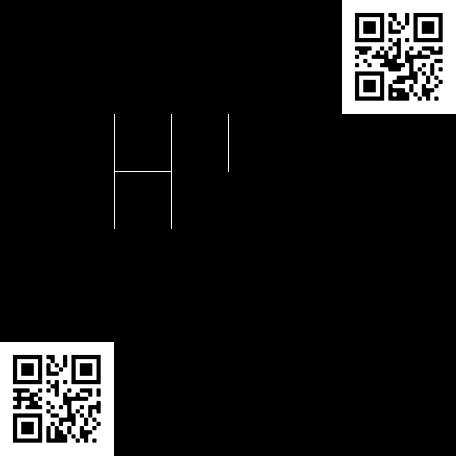
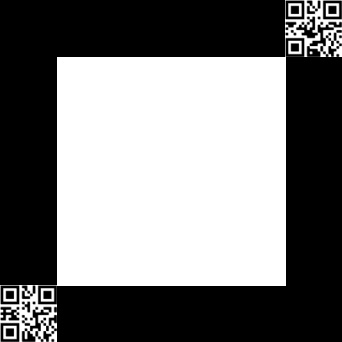
Bugfixes cuz im retarded
Bugfixes cuz im retarded

diff --git a/DnD VR Package Generator/src/Exporter.cpp b/DnD VR Package Generator/src/Exporter.cpp
@@ -11,7 +11,7 @@ Exporter::Exporter() {
 
 	for (int i = 0; i < 4; i++) {
 		for(int ii = 0; ii < 4; ii++){
-			v[i][ii] = rand() % 9;
+			v[i][ii] = 15;
 		}
 	}
 
@@ -66,19 +66,20 @@ void Game::exportBoard(string path) {
 void Game::createIMG(string path) {
 	vec2 size = board.getSize();
 	vector<vector<int>> b = board.getBoard();
-	Mat img = Mat::zeros((size.x+4) * 57, (size.y+4) * 57, CV_8UC1);
+	Mat img = Mat::zeros((size.y+2) * 57, (size.x+2) * 57, CV_8UC1);
+	bitset<4> val;
 
-	for (int y = 2; y < size.y; y++) {
-		for (int x = 2; x < size.x; x++) {
-			bitset<4> val = b[x][y];
-			if (val[3] == 1)
-				line(img, Point(57 * x, 57 * y), Point(57 * (x + 1), 57 * (y)), 255);
-			if (val[2] == 1)
-				line(img, Point(57 * x, 57 * (y + 1)), Point(57 * (x + 1), 57 * (y + 1)), 255);
-			if (val[1] == 1)
-				line(img, Point(57 * (x + 1), 57 * y), Point(57 * (x + 1), 57 * (y + 1)), 255);
+	for (int y = 0; y < size.y; y++) {
+		for (int x = 0; x < size.x; x++) {
+			val = b[x][y];
 			if (val[0] == 1)
-				line(img, Point(57 * x, 57 * y), Point(57 * x, 57 * (y + 1)), 255);
+				line(img, Point(57 * (x+1), 57 * (y+1)), Point(57 * (x + 2), 57 * (y+1)), 255);
+			if (val[1] == 1)
+				line(img, Point(57 * (x+1), 57 * (y + 2)), Point(57 * (x + 2), 57 * (y + 2)), 255);
+			if (val[2] == 1)
+				line(img, Point(57 * (x + 2), 57 * (y+1)), Point(57 * (x + 2), 57 * (y + 2)), 255);
+			if (val[3] == 1)
+				line(img, Point(57 * (x+1), 57 * (y+1)), Point(57 * (x+1), 57 * (y + 2)), 255);
 		}
 	}
 
@@ -94,10 +95,10 @@ void Game::createIMG(string path) {
 	Mat nw = imread((path + "/nw.png").c_str(), IMREAD_GRAYSCALE);
 	Mat se = imread((path + "/se.png").c_str(), IMREAD_GRAYSCALE);
 	
-	Mat destRoi = img(Rect((size.x+2)*57, 0, nw.cols, nw.rows));
+	Mat destRoi = img(Rect((size.x+1)*57, 0, nw.cols, nw.rows));
 	nw.copyTo(destRoi);
 
-	destRoi = img(Rect(0, (size.y+2)*57, se.cols, se.rows));
+	destRoi = img(Rect(0, (size.y+1)*57, se.cols, se.rows));
 	se.copyTo(destRoi);
 
 	imwrite((path + "/" + board.getName() + ".jpg").c_str(), img);
